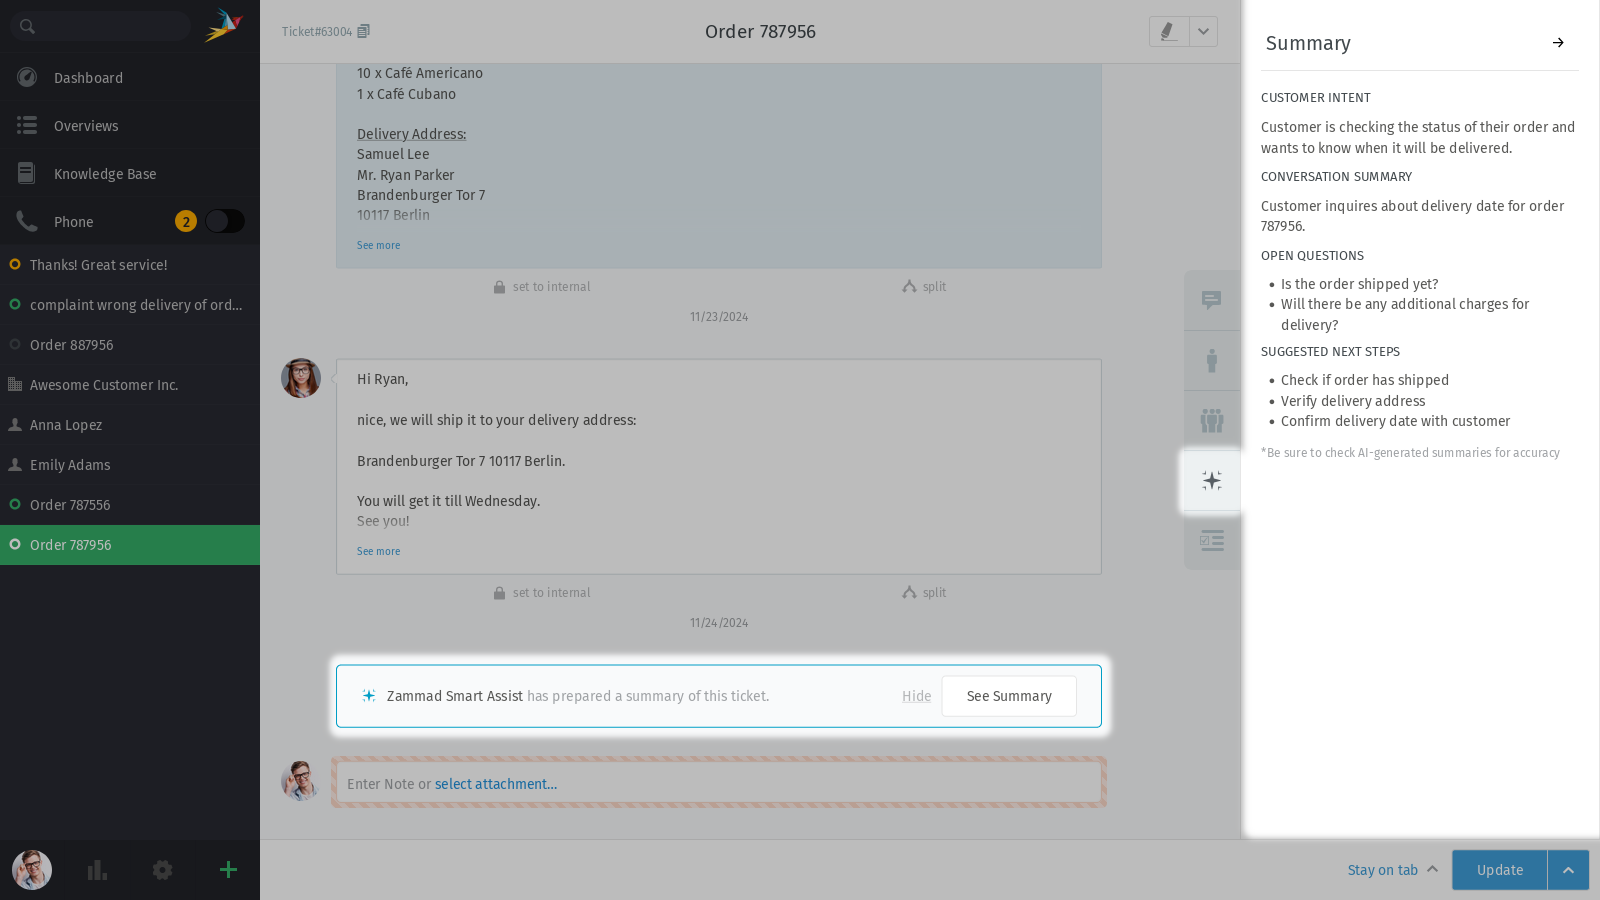
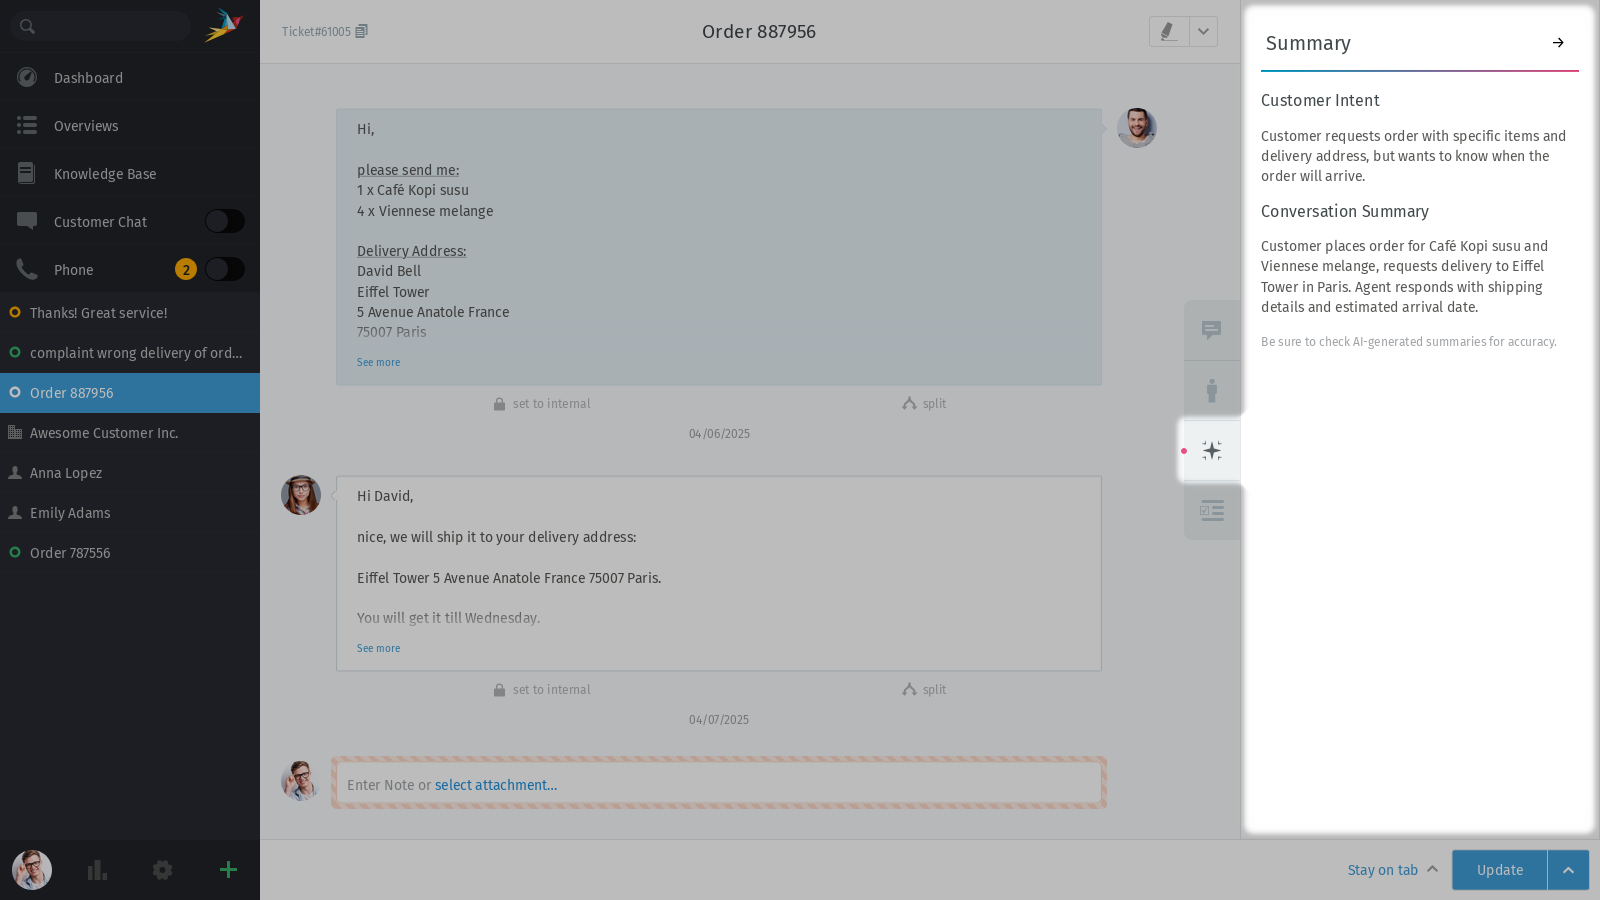
Fixes #413 - Applied changes for smart editor; replaced screenshot for summary

diff --git a/extras/ai-features.rst b/extras/ai-features.rst
@@ -35,28 +35,12 @@ the following sections:
 - Suggested next steps (optional)
 
 Smart Editor
-^^^^^^^^^^^^
+------------
 
 The new AI-powered smart editor is designed to simplify and enhance your ticket
 response workflow. It helps you with text tools while you create an article.
 
-To use any of the following features, you first have to select text you want to
-apply the changes to. After that, click the **Smart Editor** link at the bottom
-of the article creation and choose one of the following features, depending on
-what you want to perform.
-
-.. figure:: /images/extras/ai/reply-elaboration-tools.png
-   :alt: Screenshots shows highlighted article reply elaboration tools
-   :scale: 80%
-   :align: center
-
-.. warning::
-   - Be aware that your text gets replaced when you select one
-     of the text tools. If you are not satisfied with the result, try using
-     the undo feature by pressing :kbd:`Ctrl` + :kbd:`z`.
-   - Always double-check the response. Although the feature was carefully
-     developed, there may still be minor problems in individual cases due to
-     the nature of neural networks.
+The following tools are supported:
 
 - **Improve writing**: Uses your text as a base and tries to improve it by
   enhancing clarity, conciseness and structure as well as removing misspellings
@@ -69,3 +53,30 @@ what you want to perform.
   AI write the answer.
 - **Simplify**: Does the opposite of the expansion and shrinks your text while
   keeping your message.
+
+To use any of these features, simply select the text you want to
+apply the changes to. You can select the whole text or just parts of it.
+This automatically opens a menu where you can select one of the available
+options:
+
+.. figure:: /images/extras/ai/ticket-text-tools.png
+   :alt: Screenshots shows selected text in article with AI text tools
+   :scale: 80%
+   :align: center
+
+After selecting an option, Zammad shows a dialog where you can compare the
+original text and the AI suggestion:
+
+.. figure:: /images/extras/ai/text-tools-approval-dialog.png
+   :alt: Screenshots shows AI suggestion dialog
+   :scale: 80%
+   :align: center
+
+Click on the **Approve** button to accept the changes and to insert it in the
+article. After accepting the suggestion, you can still edit the text in the
+article editor.
+
+.. warning::
+   Always double-check the response. Although the feature was carefully
+   developed, there may still be minor problems in individual cases due to
+   the nature of neural networks.
